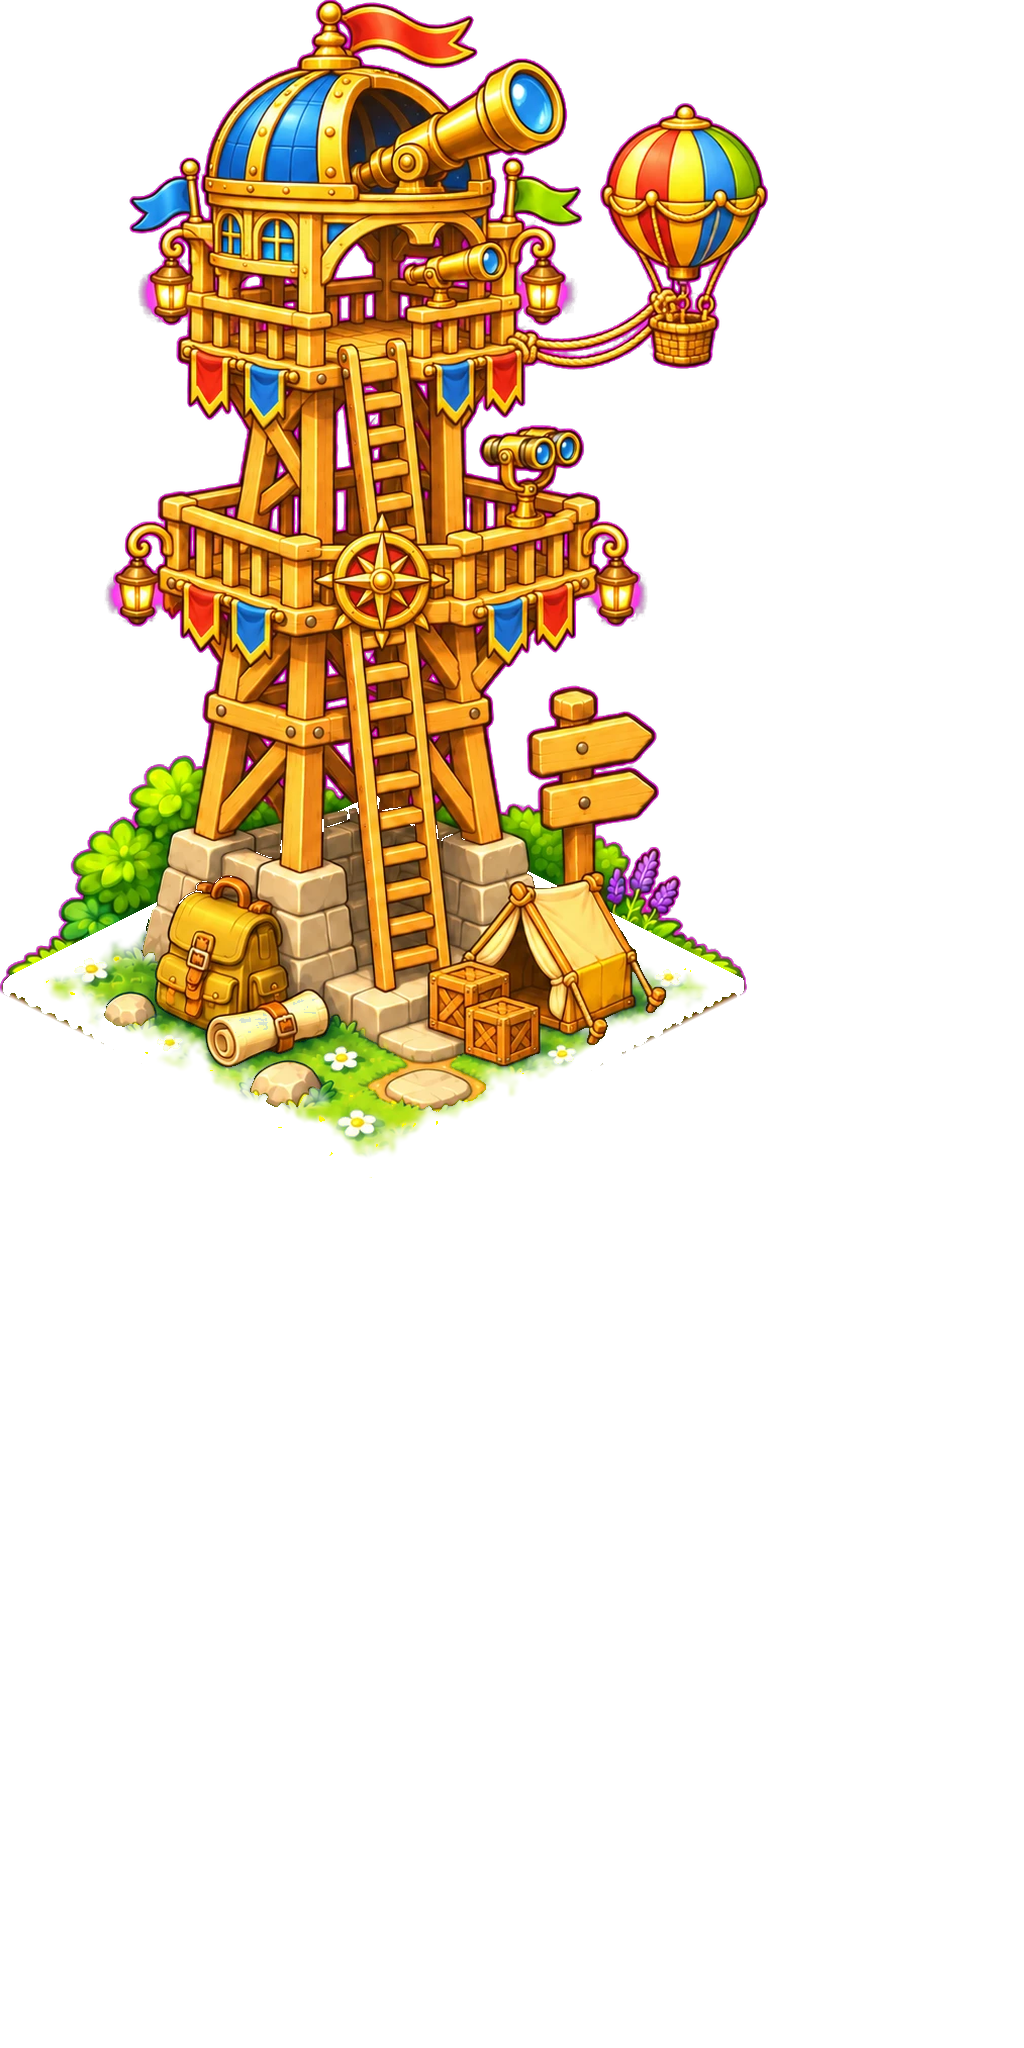
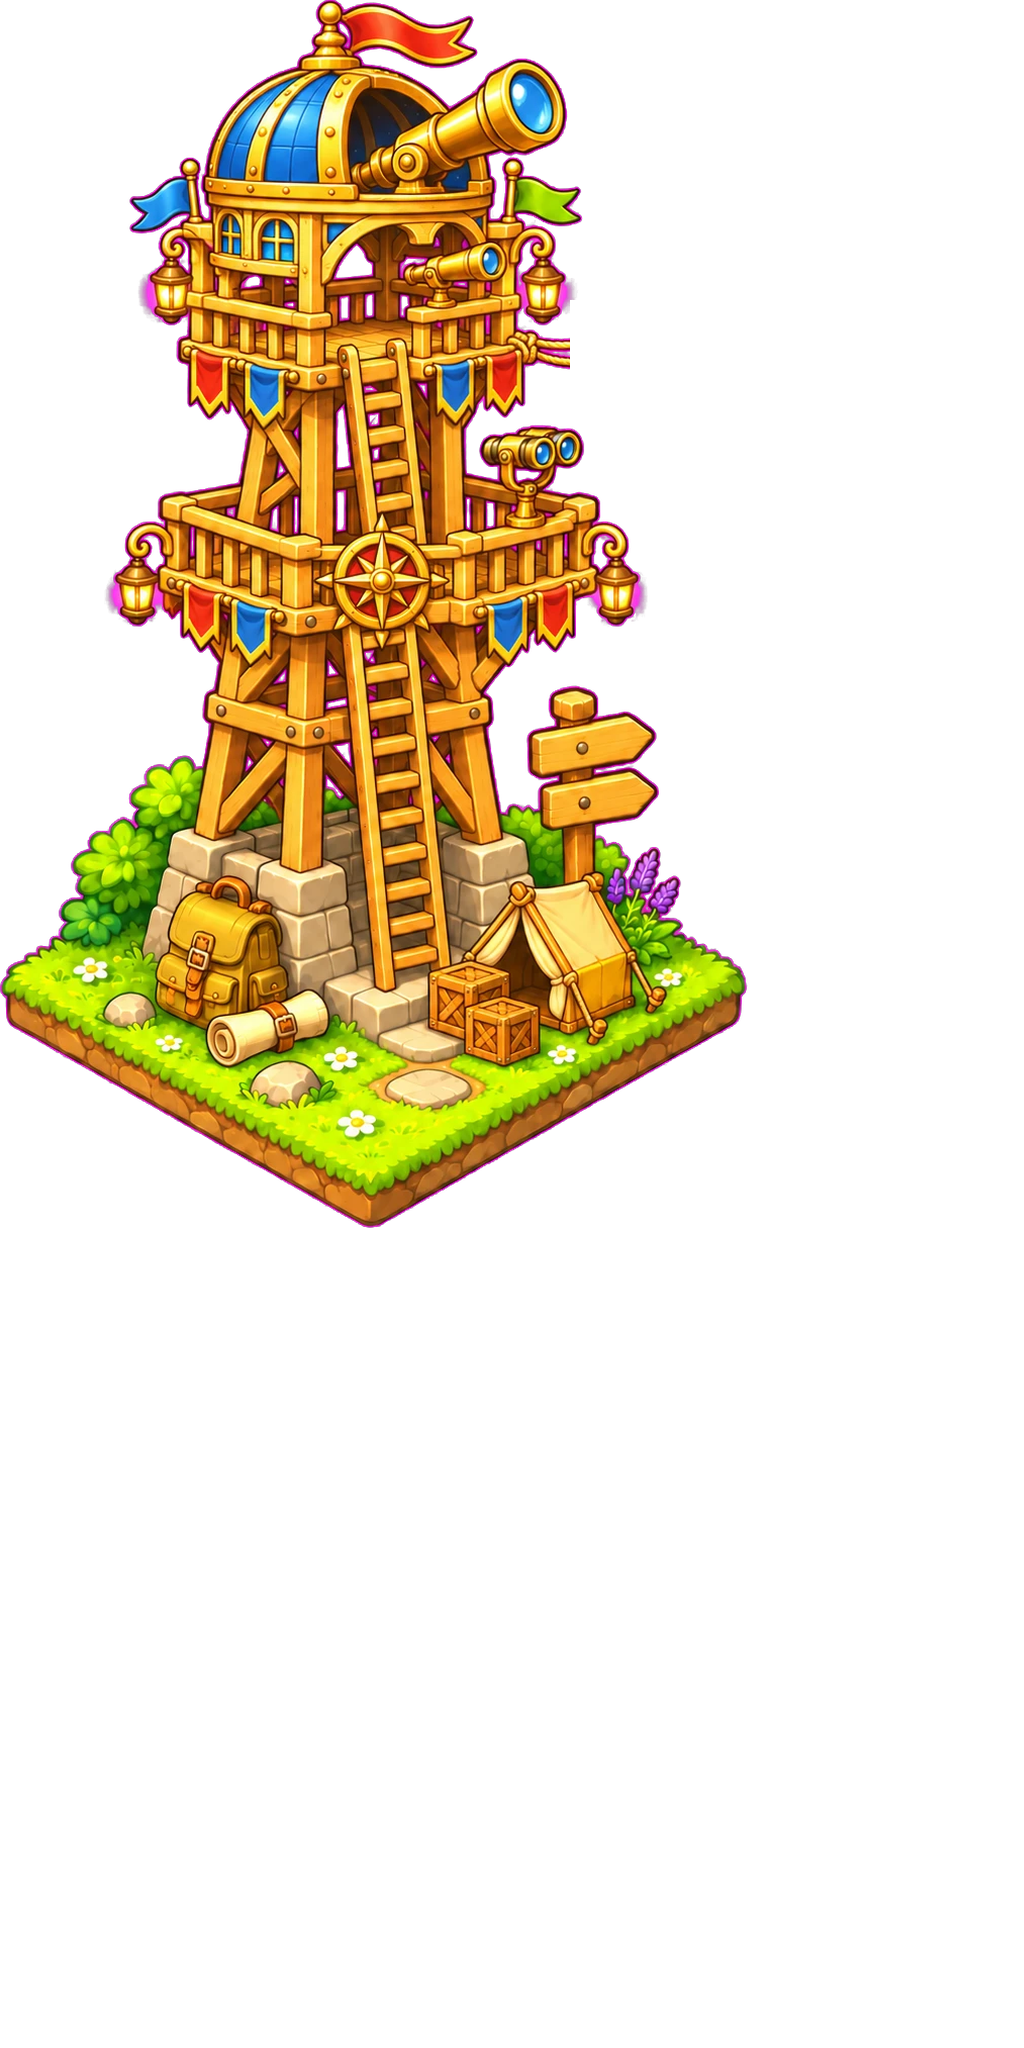
Kule balonu süzülüyor

Changed region(s): [[0.0, 0.4375, 0.75, 0.625], [0.5625, 0.0312, 0.75, 0.1875]]

diff --git a/js/binaCanlilik.js b/js/binaCanlilik.js
@@ -25,9 +25,26 @@ function parcaKopya(sahne, b, ad, [x, y, w, h, ox, oy]) {
 }
 const yerDonustur = (n, px, py) => ({ x: n.x + (px - n.originX * n.width) * n.scaleX, y: n.y + (py - n.originY * n.height) * n.scaleY });
 
+// Gözlem Kulesi 3. kademenin sıcak hava balonu (tools/balon_ayir.py ayırır): ipin kesildiği yerden hafifçe sallanıp süzülür.
+// pivot: bina görselinde ipin kesildiği nokta (oran), balonda: aynı noktanın balon görselindeki yeri
+const KULE_BALON = { pivot: [0.742, 0.287], balonda: [0, 0.93] };
+
 export function binaCanlilikKur(sahne, binalar) {
   const bul = (tip) => binalar.find((b) => b.tip === tip && b.nesne.type === 'Image');
   const r = Phaser.Math.Between;
+
+  // Gözlem Kulesi: 3. kademede balon rüzgârda süzülür (kademe değişirse görünür ya da gizlenir)
+  const kule = bul('kule');
+  if (kule && sahne.textures.exists('bina_kule_3_balon')) {
+    const n = kule.nesne, B = KULE_BALON;
+    const p = yerDonustur(n, B.pivot[0] * n.width, B.pivot[1] * n.height);
+    const balon = sahne.add.image(p.x, p.y, 'bina_kule_3_balon').setOrigin(...B.balonda).setScale(n.scaleX).setDepth(n.depth + 1);
+    (kule.ekler = kule.ekler || []).push(balon);
+    sahne.tweens.add({ targets: balon, angle: { from: -3.5, to: 4 }, duration: 2600, yoyo: true, repeat: -1, ease: 'Sine.easeInOut' });
+    const goster = () => balon.setVisible(n.texture.key === 'bina_kule_3' && n.visible && !kule.tasiniyor);
+    goster();
+    sahne.time.addEvent({ delay: 400, loop: true, callback: goster });
+  }
 
   // Kuluçkahane: yumurta kuluçkadayken yumurtalar ara sıra sallanır (iki yuva ayrı zamanlarda)
   const kulucka = bul('kulucka');

diff --git a/js/koy.js b/js/koy.js
@@ -84,7 +84,7 @@ class Koy extends Phaser.Scene {
     potYukle(this);
     this.load.image('doku_cimen', 'assets/doku/cimen.png');
     this.load.image('doku_yol', 'assets/doku/yol.png');
-    for (const tip of ['kulucka', 'tuzak', 'kusevi', 'yemlik', 'agac', 'kunduz', 'tarla', 'klinik', 'degirmen', 'siparis', 'kres', 'banyo', 'kule', ...KADEME_GORSELLERI]) this.load.image('bina_' + tip, `assets/binalar/${tip}.png`);
+    for (const tip of ['kulucka', 'tuzak', 'kusevi', 'yemlik', 'agac', 'kunduz', 'tarla', 'klinik', 'degirmen', 'siparis', 'kres', 'banyo', 'kule', 'kule_3_balon', ...KADEME_GORSELLERI]) this.load.image('bina_' + tip, `assets/binalar/${tip}.png`);
     for (const ad of ['govde', 'bas', 'bas_mutlu', 'on_kol', 'arka_kol', 'bacak', 'kuyruk', 'tahta', 'alet_kutusu']) this.load.image('kunduz_' + ad, `assets/kunduz/${ad}.png`); // Kunduz Usta
     for (const ad of ['iskele_merdivenli', 'iskele_kucuk', 'malzeme', 'toz']) this.load.image('insaat_' + ad, `assets/insaat/${ad}.png`); // inşaat
     this.load.image('manzara_dag', 'assets/manzara/dag.png'); // ormanın ardındaki tepeler ve dağlar
